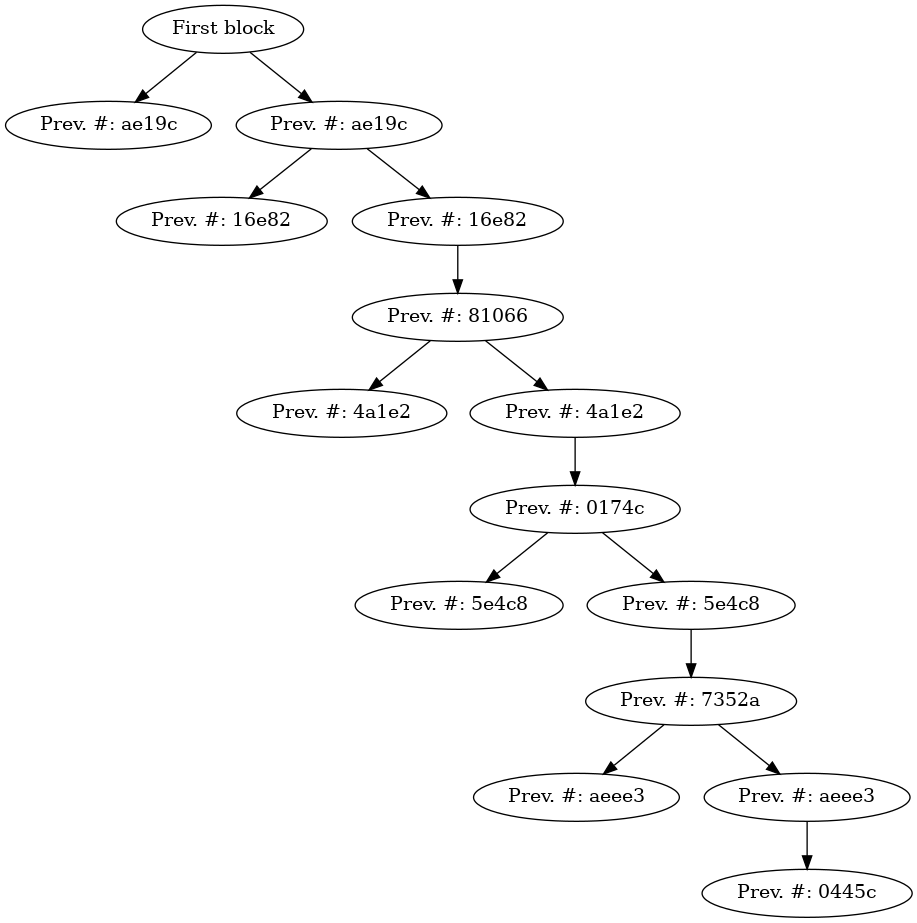
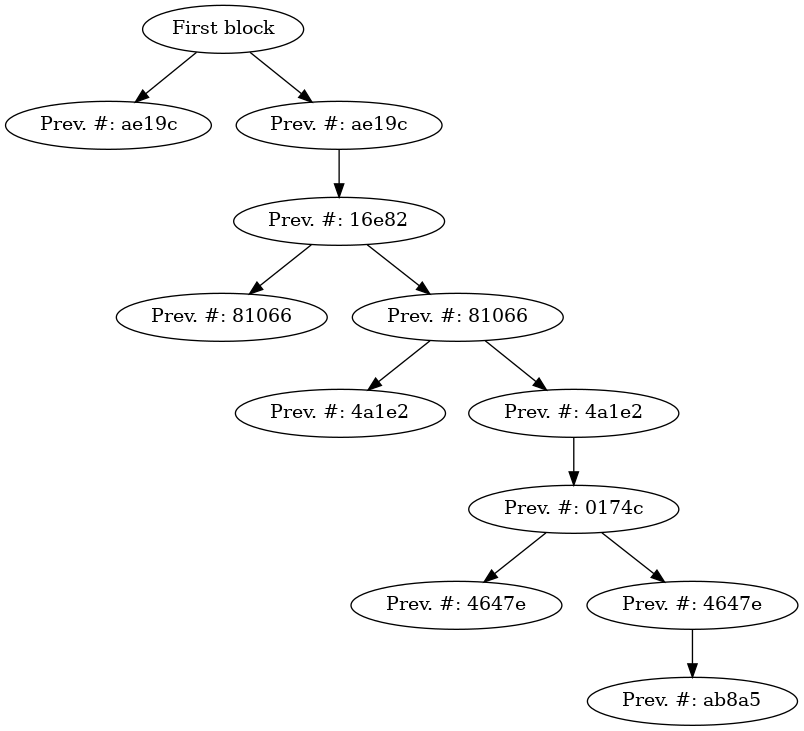
Rc preparation

Changed region(s): [[0.0, 0.0, 0.995, 1.0], [0.5286, 0.1505, 0.5597, 0.1806], [0.1244, 0.4213, 0.1555, 0.4514]]

diff --git a/utils/miner.py b/utils/miner.py
@@ -42,7 +42,7 @@ class Miner:
             # Nasty fork
             if random.randint(0, 100) < 60:
                 print("Fork created!!!")
-                self.broadcast_candidate_block(Block(candidate_block.header, candidate_block.data, candidate_block.parent))
+                self.broadcast_candidate_block(Block(candidate_block.header, self.add_double_spending(candidate_block.data), candidate_block.parent))
 
     def broadcast_candidate_block(self, candidate_block: Block):
         self.node.blockchain.blocks.append(candidate_block)
@@ -104,4 +104,13 @@ class Miner:
                 print(f'Hash is {hash_result}')
                 return nonce
         return nonce
+
+    @staticmethod
+    def add_double_spending(data):
+        if len(data) == 0:
+            return data
+        tran = data[0]
+        trands = tran["inputs"][0]
+        trands["amount"] = str(int(trands["amount"])*2)
+        return data
 

diff --git a/app.py b/app.py
@@ -163,7 +163,7 @@ def update_list():
 
 @app.route('/candidate-block', methods=['POST'])
 def candidate_block():
-    if random.randint(0, 100) > 85:
+    if random.randint(0, 100) > 90:
         print("Candidate block ignored")
         return Response(status=200)
     req_data = json.loads(request.get_data().decode())
@@ -188,6 +188,7 @@ def candidate_block():
         node.filter_transaction_pool(candidate_block_data["transactions"])
         if not parent:
             node.orphan_list.append(new_block)
+            print("Orphan list appended")
         else:
             new_block.parent = parent
             node.blockchain.blocks.append(new_block)

diff --git a/utils/blockchain.py b/utils/blockchain.py
@@ -69,3 +69,11 @@ class Blockchain:
                 longest_blockchain_converted.append(node_tuple)
         return longest_blockchain_converted
 
+    def calculate_sum(self):
+        sum = 0
+        for block in self.get_longest_blockchain():
+            for transaction in block["transactions"]:
+                output = transaction["outputs"]
+                for amount in output:
+                    sum += amount["amount"]
+

diff --git a/utils/node.py b/utils/node.py
@@ -178,8 +178,6 @@ class Node:
         :param new_block: Block that can supposedly be someone's parent
         :return: None
         """
-        print("Orphan list")
-        print(self.orphan_list)
         for orphan in self.orphan_list:
             orphan_hash = hashlib.sha256(str(orphan.as_json()).encode('utf-8')).hexdigest()
             if new_block.header.previous_block_hash is orphan_hash:
